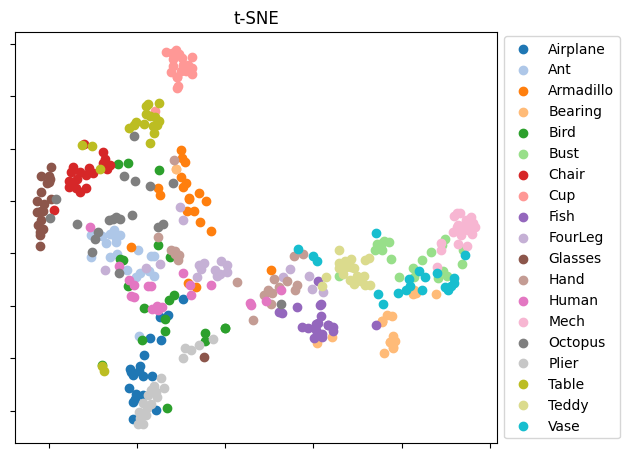
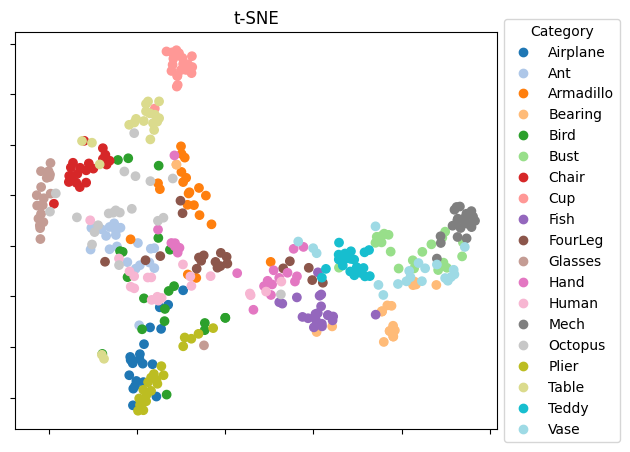
UFT: All in one plot

diff --git a/src/plot/tsne.py b/src/plot/tsne.py
@@ -1,6 +1,8 @@
 import logging
+
 import matplotlib.pyplot as plt
 from matplotlib.ticker import NullFormatter
+import matplotlib
 
 import src.plot.io as io
 from src.util.configs import *
@@ -13,27 +15,55 @@ def plot_tsne():
     io.save_plt('tsne.png')
 
 
-# Inspiration source: https://stackoverflow.com/questions/14777066/matplotlib-discrete-colorbar
 def plot_tsne_on_ax(ax):
     path = os.path.join(DATABASE_DIR, DATABASE_TSNE_FILENAME)
     if not os.path.exists(path):
         logging.warning("t-SNE file does not exist in database")
 
-    colormap_colors = plt.cm.tab20(range(0, 19))
-
     trans_data = np.load(path)
     # Perform t-distributed stochastic neighbor embedding.
     # TODO(1.2) Remove warning handling.
-    for i in range(19):
-        start_index = i * 20
-        end_index = start_index + 20
-        scatter = ax.scatter(trans_data[0][start_index:end_index], trans_data[1][start_index:end_index], color=colormap_colors[i], label=CATEGORIES[i])
+    scatter = ax.scatter(trans_data[0], trans_data[1], c=np.arange(0, 19, 1).repeat(20), cmap='tab20')
+    # ax.legend()
+    # ax.legend([scatter], CATEGORIES, scatterpoints=20)
+    # elems = scatter.legend_elements()
+    # plt.legend(handles=[scatter] * 19, labels=CATEGORIES, title='Category')
+    plt.legend(handles=scatter.legend_elements(num=20)[0], labels=CATEGORIES, title='Category', loc='center left', bbox_to_anchor=(1, 0.5))
 
-    # Legend next to the plot
-    ax.legend(loc='center left', bbox_to_anchor=(1, 0.5))
+    # ax.legend(handles=scatter.legend_elements()[0], labels=CATEGORIES * 20)
 
-    # plt.legend()
+    # legend = ax.legend(loc='center left', bbox_to_anchor=(1, 0.5))
+    # for text, category in zip(legend.get_texts(), CATEGORIES):
+    #     text.set_text(category)
+
+    # plt.legend(handles=np.arange(0, 18, 1), labels=CATEGORIES)
     ax.xaxis.set_major_formatter(NullFormatter())
     ax.yaxis.set_major_formatter(NullFormatter())
     plt.title("t-SNE")
     return scatter
+
+
+# # Inspiration source: https://stackoverflow.com/questions/14777066/matplotlib-discrete-colorbar
+# def plot_tsne_on_ax(ax):
+#     path = os.path.join(DATABASE_DIR, DATABASE_TSNE_FILENAME)
+#     if not os.path.exists(path):
+#         logging.warning("t-SNE file does not exist in database")
+#
+#     colormap_colors = plt.cm.tab20(range(0, 19))
+#
+#     trans_data = np.load(path)
+#     # Perform t-distributed stochastic neighbor embedding.
+#     # TODO(1.2) Remove warning handling.
+#     for i in range(19):
+#         start_index = i * 20
+#         end_index = start_index + 20
+#         scatter = ax.scatter(trans_data[0][start_index:end_index], trans_data[1][start_index:end_index], color=colormap_colors[i], label=CATEGORIES[i])
+#
+#     # Legend next to the plot
+#     ax.legend(loc='center left', bbox_to_anchor=(1, 0.5))
+#
+#     # plt.legend()
+#     ax.xaxis.set_major_formatter(NullFormatter())
+#     ax.yaxis.set_major_formatter(NullFormatter())
+#     plt.title("t-SNE")
+#     return scatter
